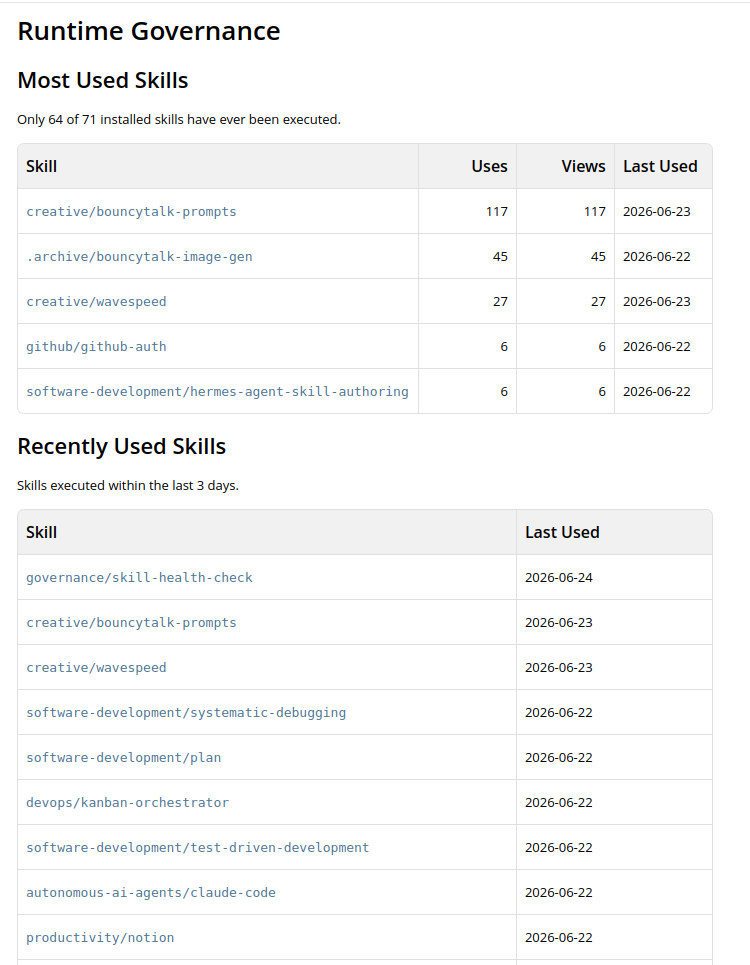
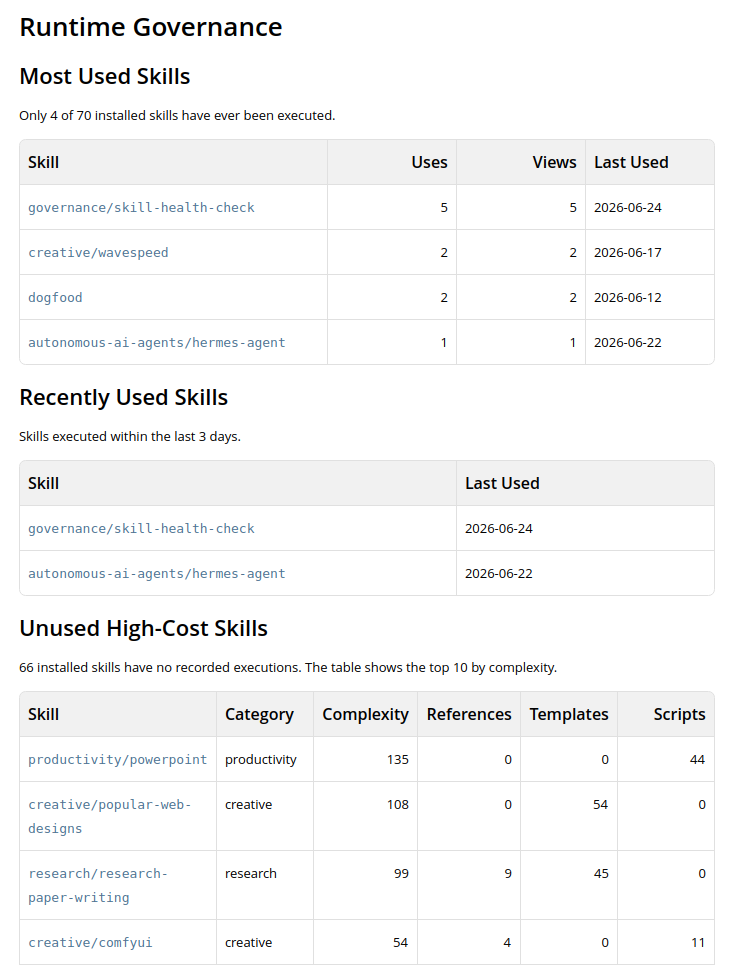
update report shot

diff --git a/report.md b/report.md
@@ -19,20 +19,24 @@ Utilization Rate: 5.7%
 
 ## Library Health Score
 
-**Overall Health: 68 / 100**
+**Overall Health: 67 / 100**
 
 - **Structure**: 21 / 25
 - **Maintainability**: 13 / 25
-- **Reusability**: 22 / 25
+- **Reusability**: 21 / 25
 - **Duplication**: 12 / 25
 
 ## Governance Summary
 
 • Only 5.7% of installed skills have ever been executed.
+
 • 66 skills have never been executed.
+
 • `productivity/powerpoint` is the largest unused package by complexity (135).
-• `creative/popular-web-designs` has the lowest health score at 56 / 100.
-• Library health is below target at 68 / 100.
+
+• `creative/popular-web-designs` has the lowest health score at 48 / 100.
+
+• Library health is below target at 67 / 100.
 
 ## Runtime Governance
 
@@ -42,7 +46,7 @@ Only 4 of 70 installed skills have ever been executed.
 
 | Skill | Uses | Views | Last Used |
 | ----- | ---: | ----: | --------- |
-| `governance/skill-health-check` | 3 | 3 | 2026-06-23 |
+| `governance/skill-health-check` | 5 | 5 | 2026-06-24 |
 | `creative/wavespeed` | 2 | 2 | 2026-06-17 |
 | `dogfood` | 2 | 2 | 2026-06-12 |
 | `autonomous-ai-agents/hermes-agent` | 1 | 1 | 2026-06-22 |
@@ -53,7 +57,7 @@ Skills executed within the last 3 days.
 
 | Skill | Last Used |
 | ----- | --------- |
-| `governance/skill-health-check` | 2026-06-23 |
+| `governance/skill-health-check` | 2026-06-24 |
 | `autonomous-ai-agents/hermes-agent` | 2026-06-22 |
 
 ### Unused High-Cost Skills
@@ -90,7 +94,7 @@ If you only clean up a few packages first, start with the highest-scoring unused
 
 | Rank | Package | Priority Score | Reason |
 | ----: | ------- | -------------: | ------ |
-| 1 | `creative/popular-web-designs` | 110 | Unused + Complexity 108 + Health 56 + 2 risk signals |
+| 1 | `creative/popular-web-designs` | 110 | Unused + Complexity 108 + Health 48 + 2 risk signals |
 | 2 | `productivity/powerpoint` | 95 | Unused + Complexity 135 + 2 risk signals |
 | 3 | `research/research-paper-writing` | 85 | Unused + Complexity 99 + 2 risk signals |
 | 4 | `creative/comfyui` | 85 | Unused + Complexity 54 + 2 risk signals |
@@ -166,32 +170,32 @@ If you only clean up a few packages first, start with the highest-scoring unused
 Additional Recommendations Hidden
 
 - Medium: 5
-- Low: 6
+- Low: 7
 
 ## Highest Risk Packages
 
 | Rank | Package | Category | Health | Complexity | Risk Factors |
 |---:|---|---|---:|---:|---|
-| 1 | `creative/popular-web-designs` | creative | 56 / 100 | 108 | High complexity (108); Template bloat (54 templates) |
-| 2 | `research/research-paper-writing` | research | 61 / 100 | 99 | High complexity (99); Template bloat (45 templates) |
+| 1 | `creative/popular-web-designs` | creative | 48 / 100 | 108 | High complexity (108); Template bloat (54 templates) |
+| 2 | `research/research-paper-writing` | research | 60 / 100 | 99 | High complexity (99); Template bloat (45 templates) |
 | 3 | `productivity/powerpoint` | productivity | 62 / 100 | 135 | High complexity (135); Script bloat (44 scripts) |
 | 4 | `creative/comfyui` | creative | 71 / 100 | 54 | High complexity (54); Script bloat (11 scripts) |
 | 5 | `creative/baoyu-infographic` | creative | 73 / 100 | 46 | High complexity (46); Reference bloat (45 references) |
 | 6 | `creative/touchdesigner-mcp` | creative | 79 / 100 | 24 | High complexity (24); Reference bloat (21 references) |
 | 7 | `creative/p5js` | creative | 90 / 100 | 25 | High complexity (25) |
-| 8 | `creative/humanizer` | creative | 93 / 100 | 1 | - |
-| 9 | `creative/manim-video` | creative | 93 / 100 | 18 | - |
-| 10 | `creative/songwriting-and-ai-music` | creative | 93 / 100 | 0 | - |
+| 8 | `mlops/huggingface-hub` | mlops | 91 / 100 | 0 | - |
+| 9 | `creative/humanizer` | creative | 93 / 100 | 1 | - |
+| 10 | `creative/manim-video` | creative | 93 / 100 | 18 | - |
 
 ## Most Valuable Packages
 
 | Rank | Package | Category | Health | Value Score | Drivers |
 |---:|---|---|---:|---:|---|
-| 1 | `research/research-paper-writing` | research | 61 / 100 | 131 | 9 references, high template density, executable skill |
-| 2 | `creative/popular-web-designs` | creative | 56 / 100 | 126 | high template density, executable skill |
-| 3 | `productivity/powerpoint` | productivity | 62 / 100 | 118 | script-heavy, executable skill |
-| 4 | `creative/baoyu-infographic` | creative | 73 / 100 | 117 | 45 references, workflow, good health |
-| 5 | `creative/comfyui` | creative | 71 / 100 | 97 | 4 references, script-heavy, executable skill, good health |
+| 1 | `research/research-paper-writing` | research | 60 / 100 | 120 | 9 references, high template density, workflow |
+| 2 | `productivity/powerpoint` | productivity | 62 / 100 | 118 | script-heavy, executable skill |
+| 3 | `creative/baoyu-infographic` | creative | 73 / 100 | 117 | 45 references, workflow, good health |
+| 4 | `creative/comfyui` | creative | 71 / 100 | 97 | 4 references, script-heavy, executable skill, good health |
+| 5 | `creative/popular-web-designs` | creative | 48 / 100 | 88 | high template density, health penalty |
 | 6 | `creative/p5js` | creative | 90 / 100 | 79 | 10 references, 1 templates, executable skill, good health |
 | 7 | `creative/touchdesigner-mcp` | creative | 79 / 100 | 79 | 21 references, executable skill, good health |
 | 8 | `creative/manim-video` | creative | 93 / 100 | 75 | 14 references, executable skill, good health |
@@ -202,9 +206,10 @@ Additional Recommendations Hidden
 
 ## Package Type Distribution
 
-- **Knowledge**: 7 (10%)
-- **Workflow**: 11 (16%)
-- **Executable Skill**: 52 (74%)
+- **Knowledge**: 9 (13%)
+- **Workflow**: 15 (21%)
+- **Executable Skill**: 45 (64%)
+- **Reference Material**: 1 (1%)
 
 ## Asset Distribution
 
@@ -231,9 +236,9 @@ description: Skills for spawning and orchestrating autonomous AI coding agents a
 description: Creative content generation — ASCII art, hand-drawn style diagrams, and visual design tools.
 ---*
 - **17** skill packages
-  - Knowledge: 2
-  - Workflow: 3
-  - Executable Skill: 12
+  - Knowledge: 4
+  - Workflow: 4
+  - Executable Skill: 9
 ### data-science
 *---
 description: Skills for data science workflows — interactive exploration, Jupyter notebooks, data analysis, and visualization.
@@ -275,7 +280,7 @@ description: Skills for working with media content — YouTube transcripts, GIF 
 description: Knowledge and Tools for Machine Learning Operations - tools and frameworks for training, fine-tuning, deploying, and optimizing ML/AI models
 ---*
 - **1** skill packages
-  - Executable Skill: 1
+  - Reference Material: 1
 ### note-taking
 *---
 description: Note taking skills, to save information, assist with research, and collab on multi-session planning and information sharing.
@@ -287,7 +292,8 @@ description: Note taking skills, to save information, assist with research, and 
 description: Skills for document creation, presentations, spreadsheets, and other productivity workflows.
 ---*
 - **8** skill packages
-  - Executable Skill: 8
+  - Workflow: 2
+  - Executable Skill: 6
 ### red-teaming
 - **1** skill packages
   - Executable Skill: 1
@@ -296,7 +302,8 @@ description: Skills for document creation, presentations, spreadsheets, and othe
 description: Skills for academic research, paper discovery, literature review, domain reconnaissance, market data, content monitoring, and scientific knowledge retrieval.
 ---*
 - **5** skill packages
-  - Executable Skill: 5
+  - Workflow: 1
+  - Executable Skill: 4
 ### smart-home
 *---
 description: Skills for controlling smart home devices — lights, switches, sensors, and home automation systems.